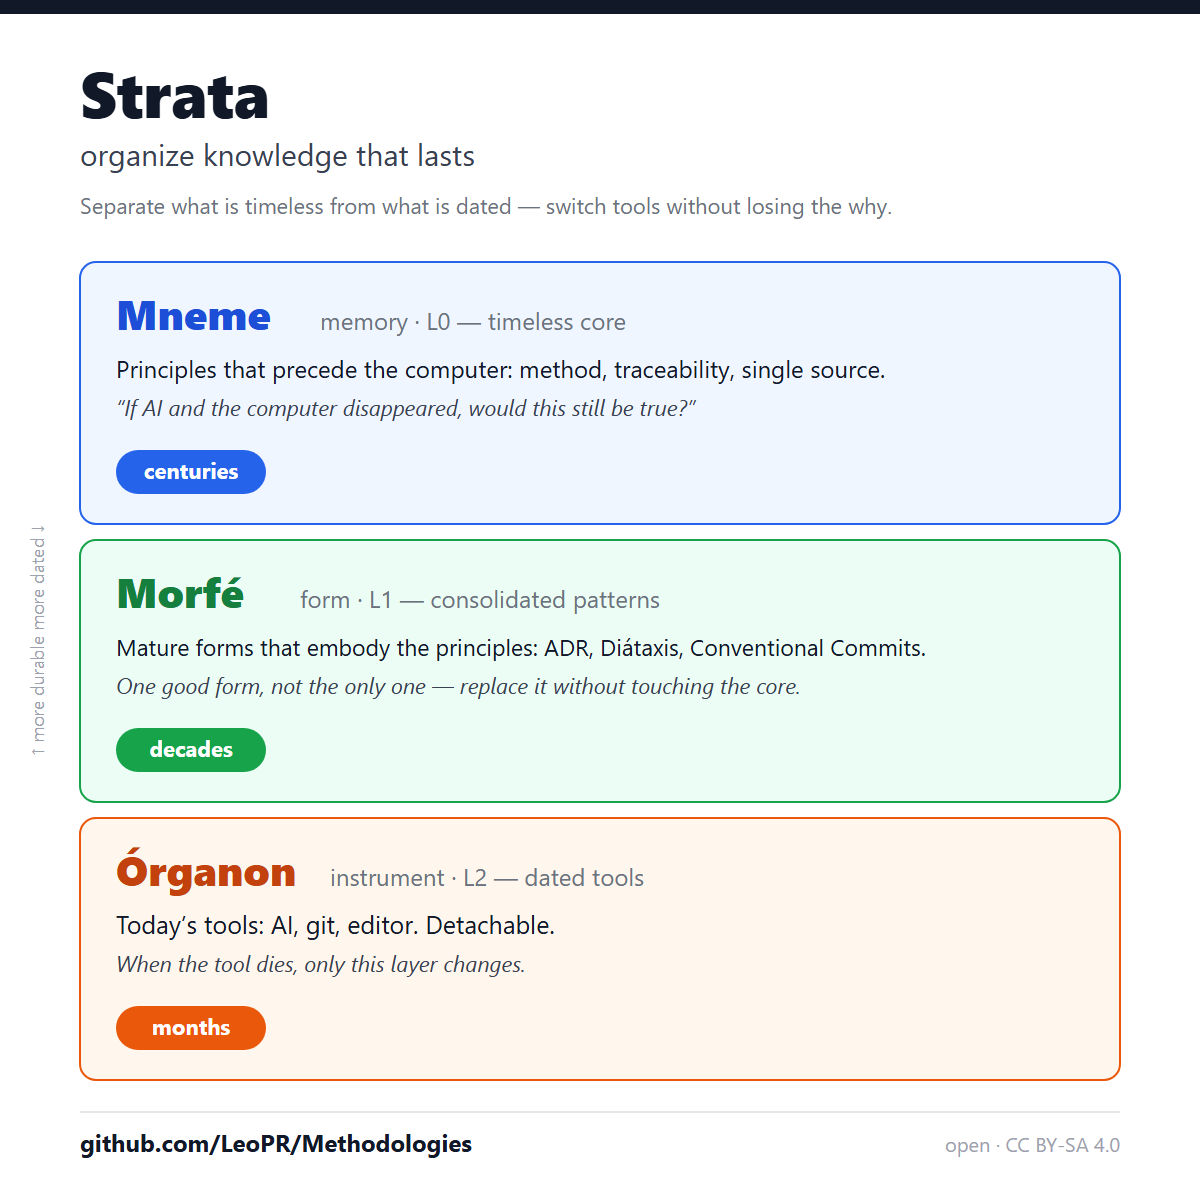
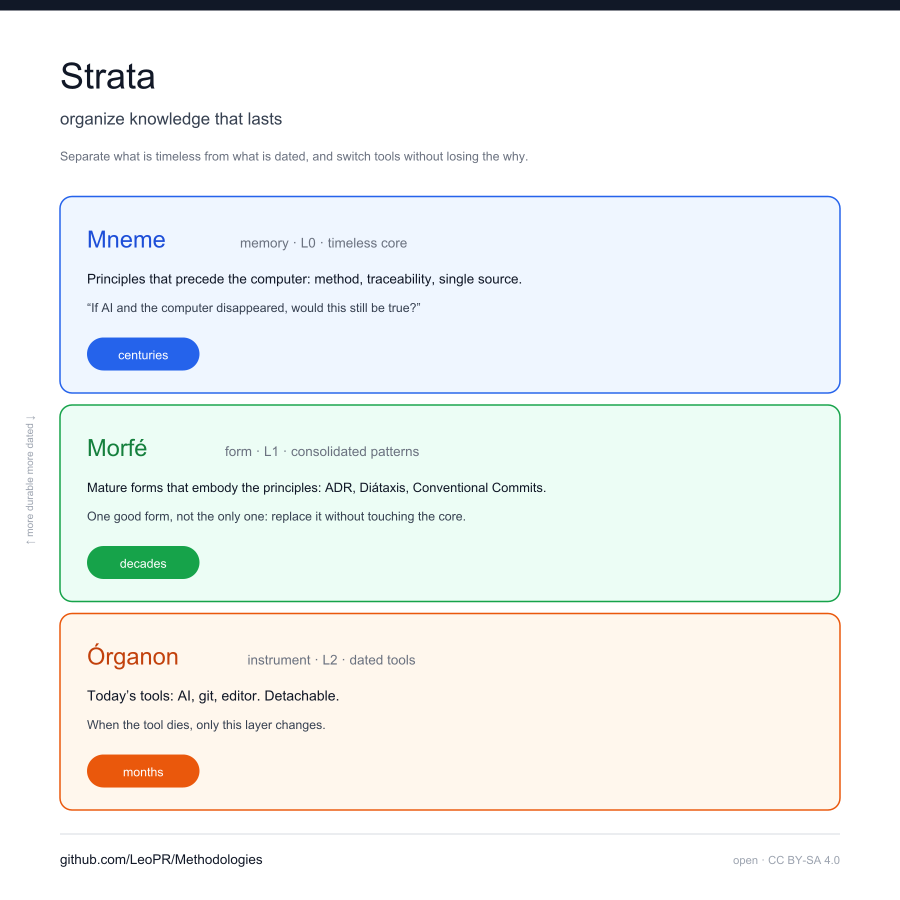
docs(outreach): PNGs linkedin re-renderizados dos SVGs sem travessao (venv, svglib+rlPyCairo)

diff --git a/lab/2026-08-02-consolidacao-narrativa/AUDITORIA.md b/lab/2026-08-02-consolidacao-narrativa/AUDITORIA.md
@@ -118,6 +118,6 @@ canônico + `README.pt-BR.md` derivado). Executada em 5 pacotes:
 - **Complemento SVG (2026-08-02):** a primeira varredura cobriu `.md`; varredura
   corretiva cobriu os 8 SVGs publicados (outreach 2, recipe 2, VIZ-p6 4).
   Rótulos no padrão "·"; prosa com vírgula/dois-pontos/ponto-e-vírgula. XML
-  validado. **Pendência:** os PNGs de outreach (`strata-linkedin*.png`) são
-  binários renderizados dos SVGs e seguem com o texto antigo; re-render exige
-  cairo/inkscape, ausente no Windows desta máquina.
+  validado. Os PNGs de outreach (`strata-linkedin*.png`) foram re-renderizados
+  dos SVGs corrigidos com svglib+reportlab+rlPyCairo, tudo dentro do `.venv`
+  (cadeia Python pura, verificação visual feita).
